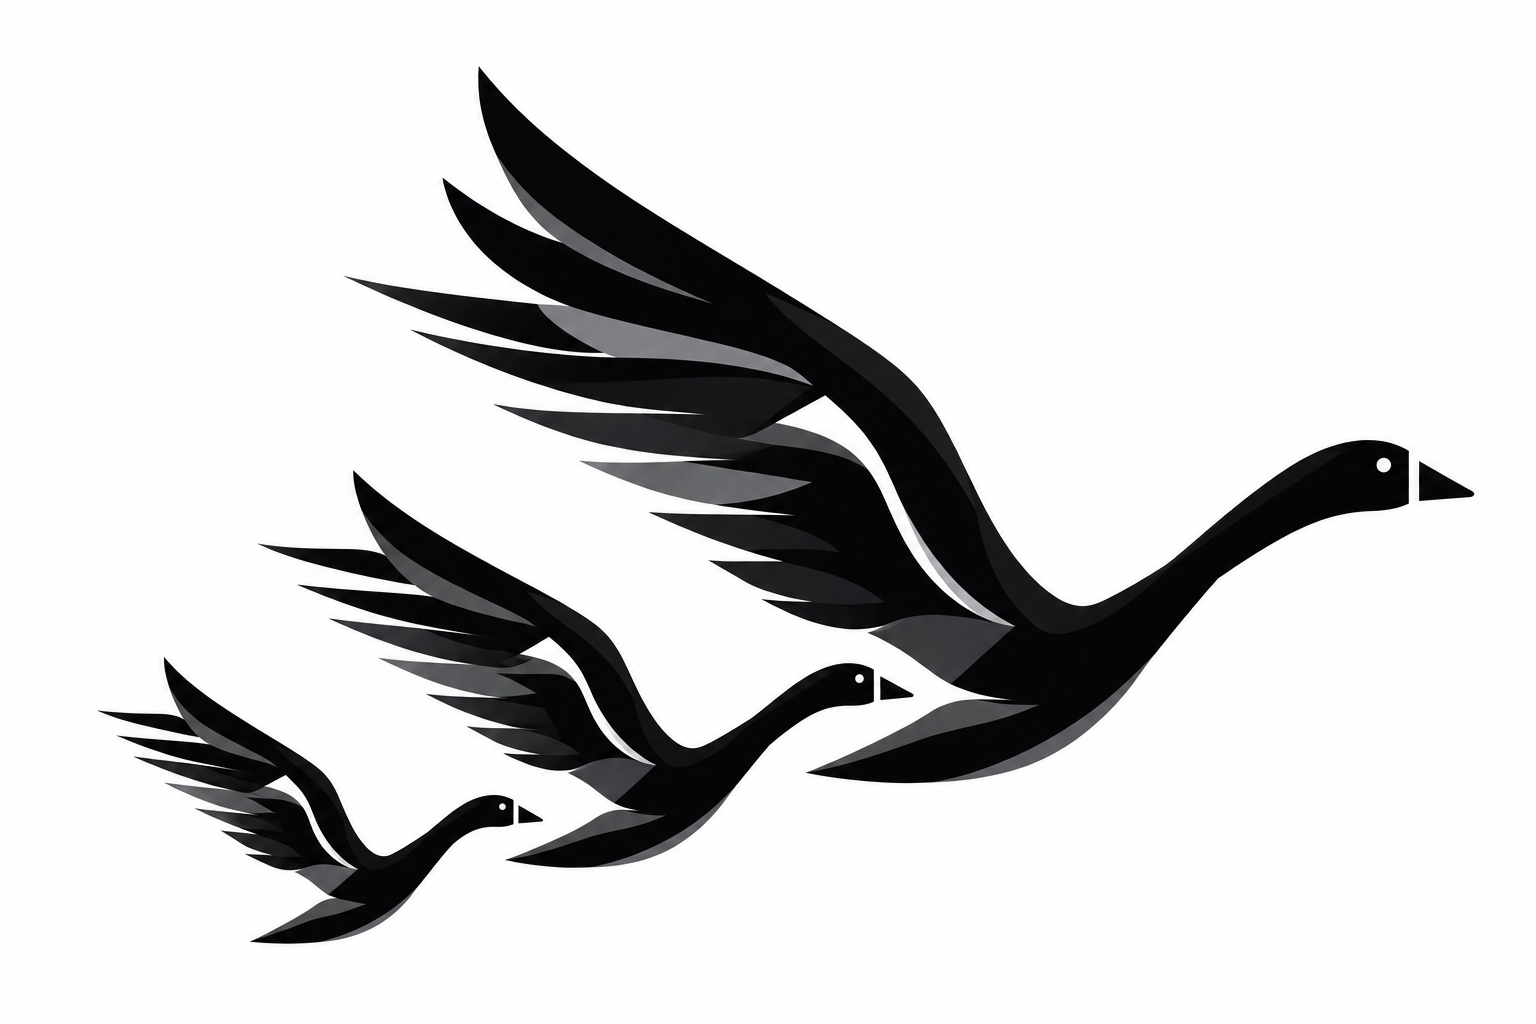
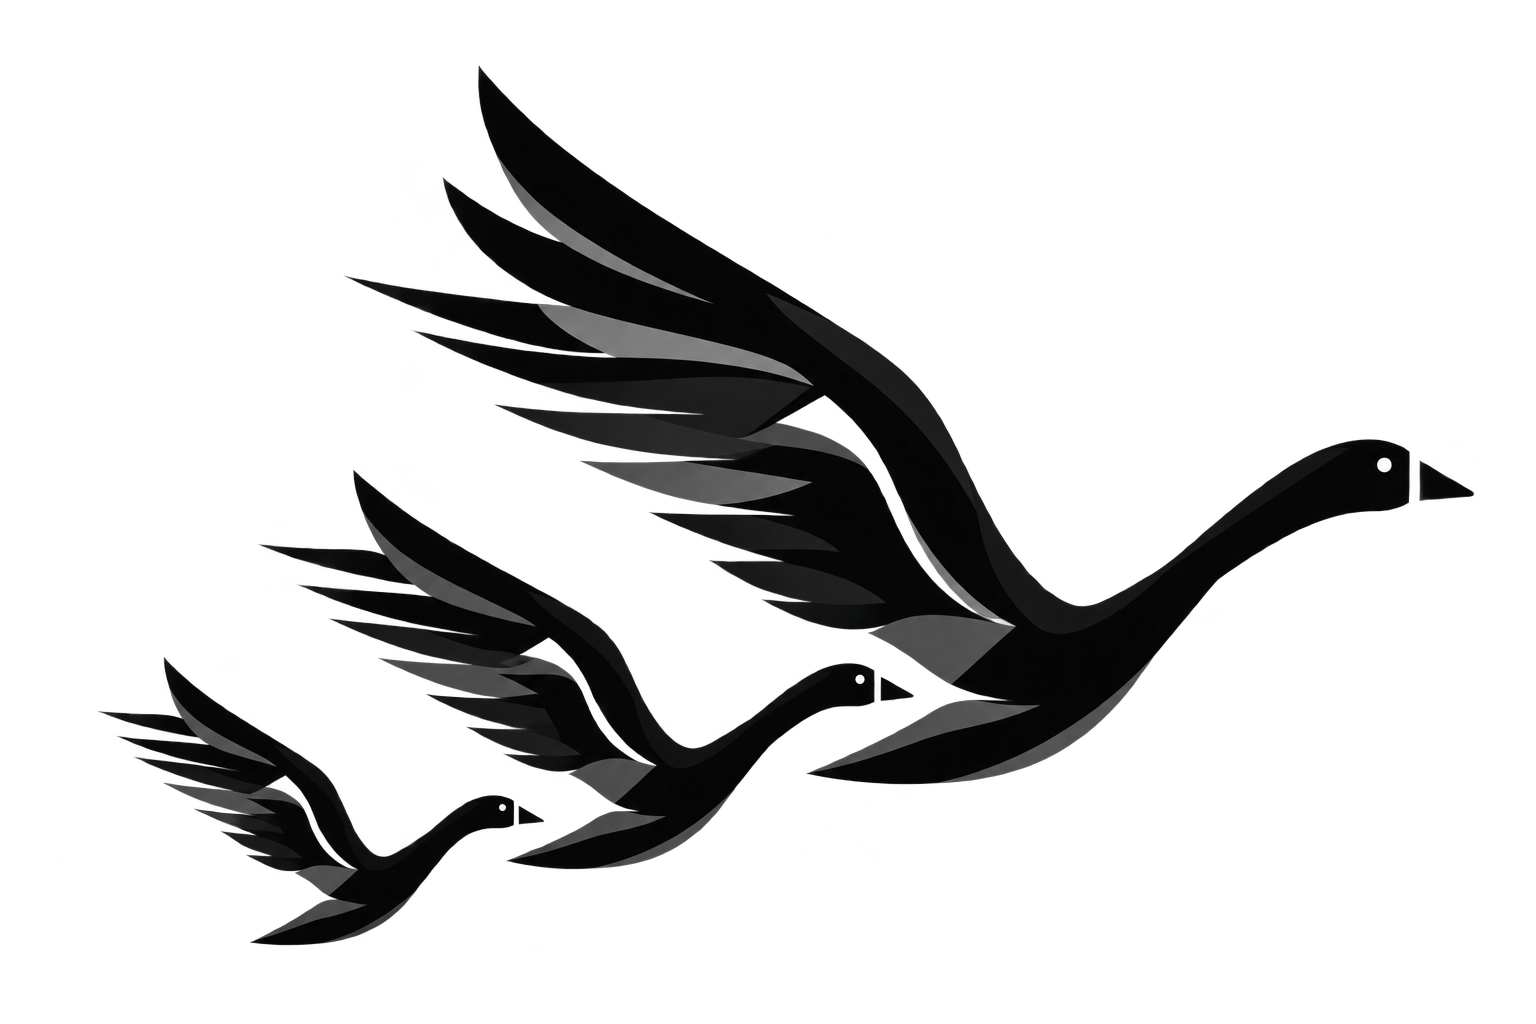
Replace previous profile asset with transparent artwork

diff --git a/profile/README.md b/profile/README.md
@@ -1,5 +1,5 @@
 <p align="center">
-  <img src="https://raw.githubusercontent.com/geese-the-goose/.github/main/profile/assets/geese-transparent.png" width="100%" alt="Geese the Goose">
+  <img src="https://raw.githubusercontent.com/geese-the-goose/.github/main/profile/assets/real-to-use.png" width="100%" alt="Geese the Goose">
 </p>
 
 # Geese the Goose
